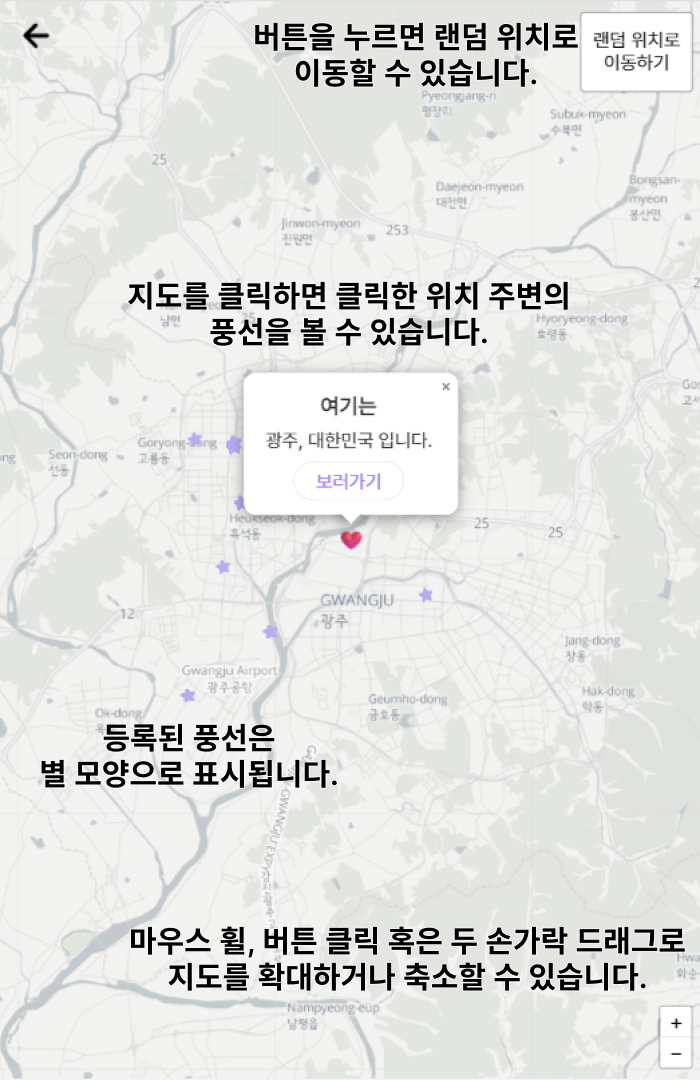
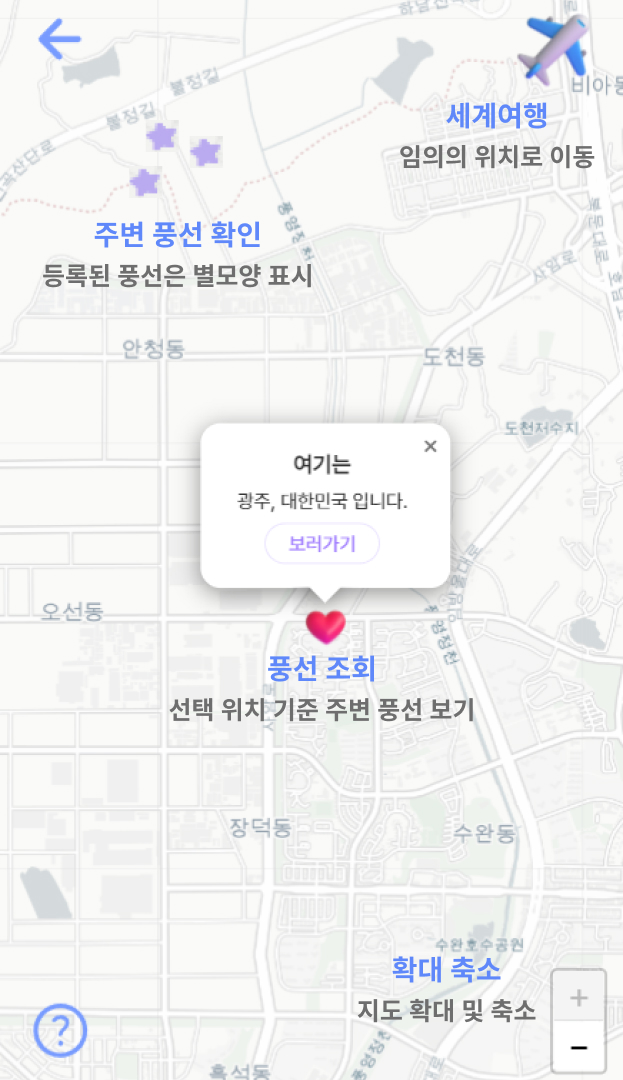
[S07P31C209-3][FE-이성조] style : 도움말 이미지 교체

diff --git a/frontend/src/components/common/OpenHelp.tsx b/frontend/src/components/common/OpenHelp.tsx
@@ -5,6 +5,7 @@ import {ReactComponent as Help} from '@images/help.svg';
 import helpMap from '@images/helpMap.jpg';
 import helpMain from '@images/helpMain.jpg';
 import helpVR from '@images/helpVR.jpg';
+import './OpenHelp.scss';
 
 interface OpenHelpProps {
   imagesIndex: number;

diff --git a/frontend/src/screens/Process.tsx b/frontend/src/screens/Process.tsx
@@ -25,6 +25,7 @@ function Process() {
       userId: localStorage.userId,
     };
     saveFirebaseToken(data)
+      .then(res => console.log(res))
       .catch(err => console.log(err))
       .then(() => requestPermission())
       .then(() => navigate('/main'));

diff --git a/frontend/src/components/common/OpenHelp.scss b/frontend/src/components/common/OpenHelp.scss
@@ -1,0 +1,3 @@
+// .container-help-container {
+//   border-radius: 50px;
+// }
